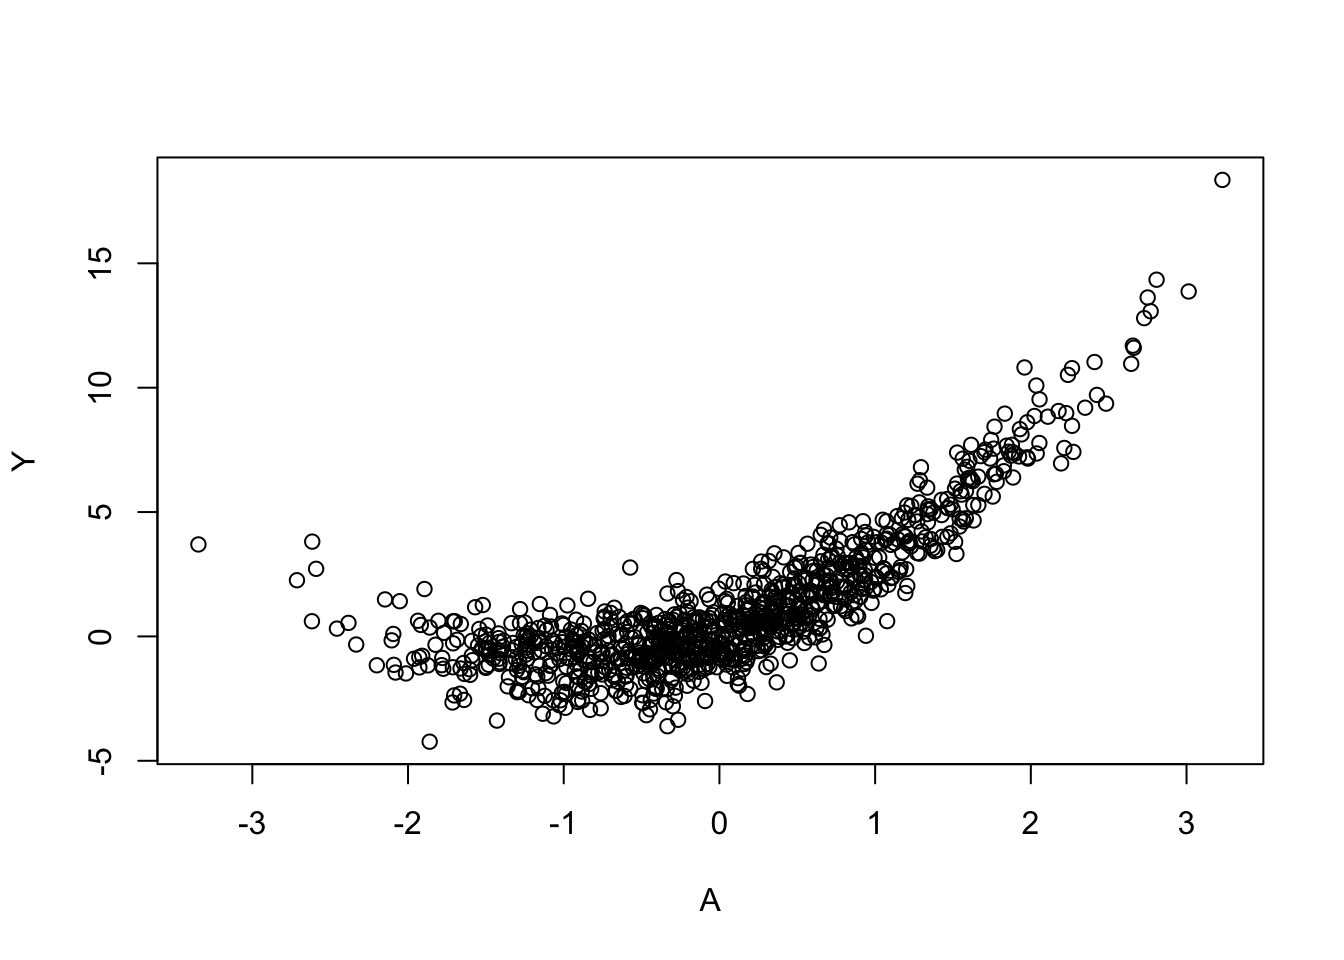
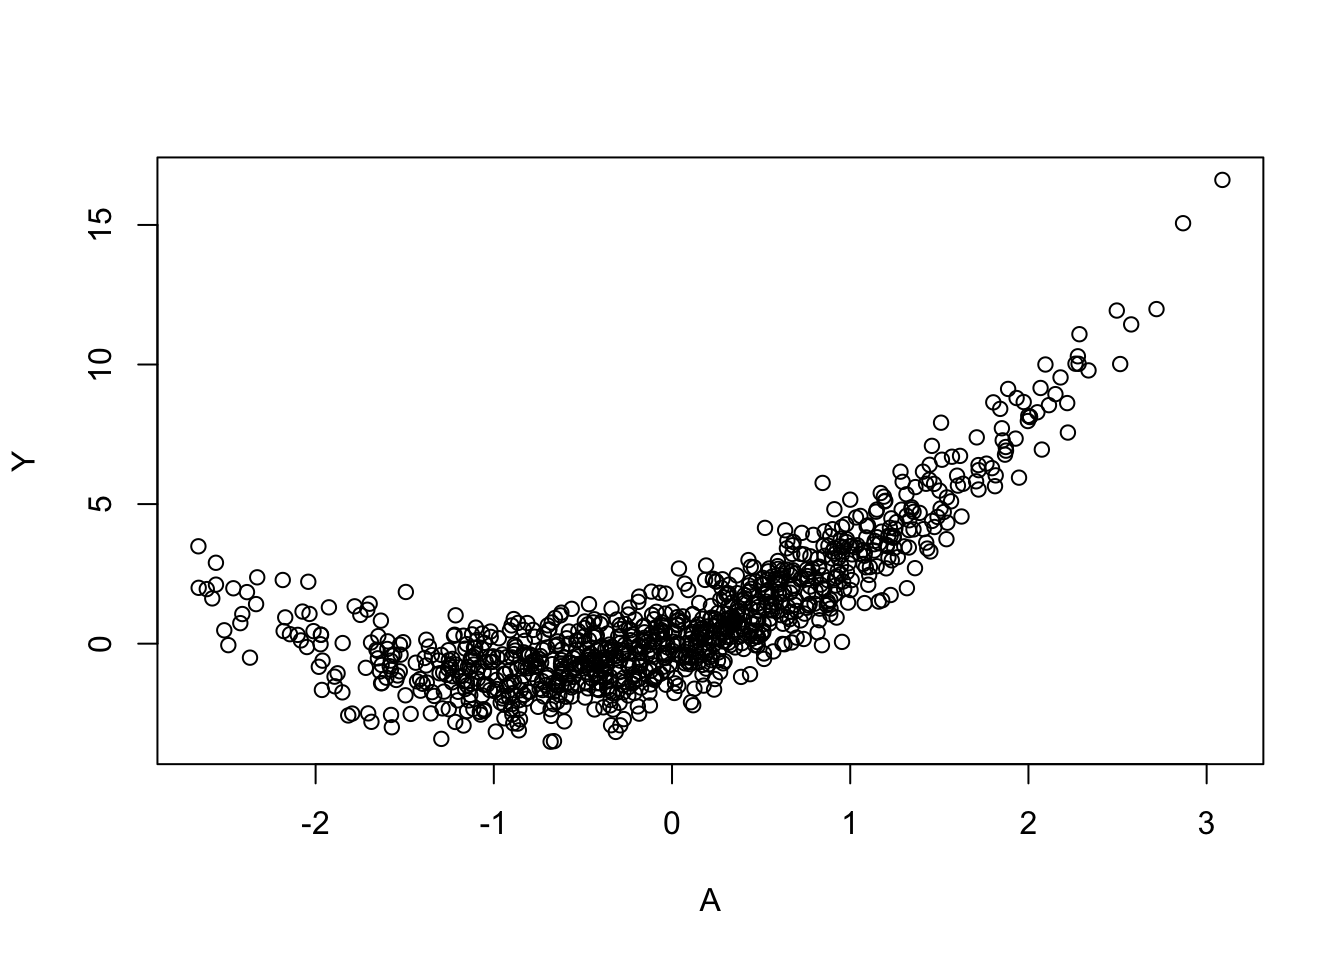
adding some on Aronow & Miller

diff --git a/docs/2019_Aronow_Miller/2019_Aronow_Miller.html b/docs/2019_Aronow_Miller/2019_Aronow_Miller.html
@@ -191,6 +191,8 @@ code span.wa { color: #60a0b0; font-weight: bold; font-style: italic; } /* Warni
    
   <ul>
   <li><a href="#introduction" id="toc-introduction" class="nav-link active" data-scroll-target="#introduction">Introduction</a></li>
+  <li><a href="#sharp-bounds-for-estimates" id="toc-sharp-bounds-for-estimates" class="nav-link" data-scroll-target="#sharp-bounds-for-estimates">Sharp Bounds for Estimates</a></li>
+  <li><a href="#inverse-probability-weighting" id="toc-inverse-probability-weighting" class="nav-link" data-scroll-target="#inverse-probability-weighting">Inverse Probability Weighting</a></li>
   </ul>
 </nav>
     </div>
@@ -224,6 +226,9 @@ code span.wa { color: #60a0b0; font-weight: bold; font-style: italic; } /* Warni
 <p><strong>Definition.</strong> The stable outcomes model is for missing data is given <span class="math display">\[Y_i^* = \left\{ \begin{array}{ll} -99 &amp; R_i = 0 \\ Y_i &amp; R_i = 1 \end{array} \right.\]</span> where <span class="math inline">\(R_i\)</span> is the missingness indicator variable. This can also be written as <span class="math inline">\(Y_i^* = Y_i R_i + (-99)(1-R_i)\)</span>.</p>
 <p>This is called the <em>stable outcomes model</em> because it presumes that <span class="math inline">\(Y_i\)</span> is itself a stable quantity.</p>
 <p>As far as I can tell, they’re using <span class="math inline">\(-99\)</span> in the equations not because it makes the math go through, but because <span class="math inline">\(-99\)</span> is number commonly used to indicate missingness.</p>
+</section>
+<section id="sharp-bounds-for-estimates" class="level2">
+<h2 class="anchored" data-anchor-id="sharp-bounds-for-estimates">Sharp Bounds for Estimates</h2>
 <p><strong>Theorem 6.1.3.</strong> Sharp bounds for the expected value. Let <span class="math inline">\(Y_i\)</span> and <span class="math inline">\(R_i\)</span> be random variables with support for <span class="math inline">\(Y_i\)</span> be restricted to <span class="math inline">\([a,b]\)</span>, <span class="math inline">\(\text{support}(R_i) \in \{0,1\}\)</span>, and <span class="math inline">\(Y_i*\)</span> is as in the stable outcomes model. Then</p>
 <p><span class="math display">\[\begin{align}
 \mathbb E[Y_i] \in \big[
@@ -284,15 +289,15 @@ code span.wa { color: #60a0b0; font-weight: bold; font-style: italic; } /* Warni
 <tbody>
   <tr>
    <td style="text-align:left;font-weight: bold;"> F(1,998) </td>
-   <td style="text-align:right;"> 1630.98 </td>
+   <td style="text-align:right;"> 1287.76 </td>
   </tr>
   <tr>
    <td style="text-align:left;font-weight: bold;"> R² </td>
-   <td style="text-align:right;"> 0.62 </td>
+   <td style="text-align:right;"> 0.56 </td>
   </tr>
   <tr>
    <td style="text-align:left;font-weight: bold;"> Adj. R² </td>
-   <td style="text-align:right;"> 0.62 </td>
+   <td style="text-align:right;"> 0.56 </td>
   </tr>
 </tbody>
 </table> <table class="table table-striped table-hover table-condensed table-responsive" style="width: auto !important; margin-left: auto; margin-right: auto;border-bottom: 0;">
@@ -308,16 +313,16 @@ code span.wa { color: #60a0b0; font-weight: bold; font-style: italic; } /* Warni
 <tbody>
   <tr>
    <td style="text-align:left;font-weight: bold;"> (Intercept) </td>
-   <td style="text-align:right;"> 1.03 </td>
+   <td style="text-align:right;"> 0.95 </td>
    <td style="text-align:right;"> 0.05 </td>
-   <td style="text-align:right;"> 19.01 </td>
+   <td style="text-align:right;"> 17.62 </td>
    <td style="text-align:right;"> 0.00 </td>
   </tr>
   <tr>
    <td style="text-align:left;font-weight: bold;"> A </td>
-   <td style="text-align:right;"> 2.19 </td>
+   <td style="text-align:right;"> 1.96 </td>
    <td style="text-align:right;"> 0.05 </td>
-   <td style="text-align:right;"> 40.39 </td>
+   <td style="text-align:right;"> 35.89 </td>
    <td style="text-align:right;"> 0.00 </td>
   </tr>
 </tbody>
@@ -333,7 +338,7 @@ code span.wa { color: #60a0b0; font-weight: bold; font-style: italic; } /* Warni
 <tbody>
   <tr>
    <td style="text-align:left;font-weight: bold;"> Observations </td>
-   <td style="text-align:right;"> 447 </td>
+   <td style="text-align:right;"> 487 </td>
   </tr>
   <tr>
    <td style="text-align:left;font-weight: bold;"> Dependent variable </td>
@@ -347,16 +352,16 @@ code span.wa { color: #60a0b0; font-weight: bold; font-style: italic; } /* Warni
 </table> <table class="table table-striped table-hover table-condensed table-responsive" style="width: auto !important; margin-left: auto; margin-right: auto;">
 <tbody>
   <tr>
-   <td style="text-align:left;font-weight: bold;"> F(1,445) </td>
-   <td style="text-align:right;"> 19.75 </td>
+   <td style="text-align:left;font-weight: bold;"> F(1,485) </td>
+   <td style="text-align:right;"> 16.00 </td>
   </tr>
   <tr>
    <td style="text-align:left;font-weight: bold;"> R² </td>
-   <td style="text-align:right;"> 0.04 </td>
+   <td style="text-align:right;"> 0.03 </td>
   </tr>
   <tr>
    <td style="text-align:left;font-weight: bold;"> Adj. R² </td>
-   <td style="text-align:right;"> 0.04 </td>
+   <td style="text-align:right;"> 0.03 </td>
   </tr>
 </tbody>
 </table> <table class="table table-striped table-hover table-condensed table-responsive" style="width: auto !important; margin-left: auto; margin-right: auto;border-bottom: 0;">
@@ -372,16 +377,16 @@ code span.wa { color: #60a0b0; font-weight: bold; font-style: italic; } /* Warni
 <tbody>
   <tr>
    <td style="text-align:left;font-weight: bold;"> (Intercept) </td>
-   <td style="text-align:right;"> -0.46 </td>
+   <td style="text-align:right;"> -0.48 </td>
    <td style="text-align:right;"> 0.07 </td>
-   <td style="text-align:right;"> -6.64 </td>
+   <td style="text-align:right;"> -6.96 </td>
    <td style="text-align:right;"> 0.00 </td>
   </tr>
   <tr>
    <td style="text-align:left;font-weight: bold;"> A_observed </td>
-   <td style="text-align:right;"> 0.33 </td>
+   <td style="text-align:right;"> 0.29 </td>
    <td style="text-align:right;"> 0.07 </td>
-   <td style="text-align:right;"> 4.44 </td>
+   <td style="text-align:right;"> 4.00 </td>
    <td style="text-align:right;"> 0.00 </td>
   </tr>
 </tbody>
@@ -395,19 +400,115 @@ code span.wa { color: #60a0b0; font-weight: bold; font-style: italic; } /* Warni
 <span id="cb5-4"><a href="#cb5-4" aria-hidden="true" tabindex="-1"></a><span class="co"># lower bound on the A-Y effect</span></span>
 <span id="cb5-5"><a href="#cb5-5" aria-hidden="true" tabindex="-1"></a><span class="fu">mean</span>(Y_stable<span class="sc">*</span>R <span class="sc">+</span> <span class="fu">min</span>(Y_observed)<span class="sc">*</span>(<span class="dv">1</span><span class="sc">-</span>R))</span></code><button title="Copy to Clipboard" class="code-copy-button"><i class="bi"></i></button></pre></div>
 <div class="cell-output cell-output-stdout">
-<pre><code>[1] -0.4926378</code></pre>
+<pre><code>[1] -0.5036956</code></pre>
 </div>
 <div class="sourceCode cell-code" id="cb7"><pre class="sourceCode r code-with-copy"><code class="sourceCode r"><span id="cb7-1"><a href="#cb7-1" aria-hidden="true" tabindex="-1"></a><span class="co"># upper bound on the A-Y effect</span></span>
 <span id="cb7-2"><a href="#cb7-2" aria-hidden="true" tabindex="-1"></a><span class="fu">mean</span>(Y_stable<span class="sc">*</span>R <span class="sc">+</span> <span class="fu">max</span>(Y_observed)<span class="sc">*</span>(<span class="dv">1</span><span class="sc">-</span>R))</span></code><button title="Copy to Clipboard" class="code-copy-button"><i class="bi"></i></button></pre></div>
 <div class="cell-output cell-output-stdout">
-<pre><code>[1] 3.099398</code></pre>
+<pre><code>[1] 3.028738</code></pre>
 </div>
 </div>
 <p>In chapter 7, they provide a similar theorem that provides the means to bound a causal effect. There is one crucial difference, though, which is that because the average treatment effect is the difference between two potential outcomes (under treatment and under non-treatment), whereas the effect estimate in the missing data scenario is purely associational, the causal theorem has an additional subtracted term.</p>
 <p><strong>Theorem 7.1.17.</strong> Sharp bounds for the average treatment effect.</p>
 <p>Let <span class="math inline">\(Y_i(0)\)</span>, <span class="math inline">\(Y_i(1)\)</span>, and <span class="math inline">\(D_i\)</span> be random variables such that <span class="math inline">\(\forall d \in \{0, 1\},\)</span> <span class="math inline">\(\text{support}(Y_i(d)) \subset [a,b],\)</span> and <span class="math inline">\(\text{support}(D_i) = \{0,1\}\)</span>. Let <span class="math inline">\(Y_i = Y_i(1) \cdot D_i + Y_i(0) \cdot (1-D_i)\)</span> and <span class="math inline">\(\tau_i = Y_i(1) - Y_i(0)\)</span>. Then</p>
-<p><span class="math display">\[
-\mathbb E[\tau_i] \in \big[ \mathbb E( Y_i | D_i = 1)Pr(D_i=1) + aPr(D_i = 0) \]</span> <span class="math display">\[ -(\mathbb E(Y_i|D_i=0)Pr(D_i=0) + bPr(D_i=1)),\]</span> <span class="math display">\[\mathbb E( Y_i | D_i = 1)Pr(D_i=1) + bPr(D_i = 0) \]</span> <span class="math display">\[ -(\mathbb E(Y_i|D_i=0)Pr(D_i=0) + aPr(D_i=1)) \big].\]</span></p>
+<p><span class="math display">\[\begin{aligned}\mathbb E[\tau_i] \in \big[ \mathbb E( &amp; Y_i | D_i = 1)Pr(D_i=1) + aPr(D_i = 0) \\
+&amp;  -(\mathbb E(Y_i|D_i=0)Pr(D_i=0) + bPr(D_i=1)), \\
+&amp; \mathbb E( Y_i | D_i = 1)Pr(D_i=1) + bPr(D_i = 0) \\
+&amp; -(\mathbb E(Y_i|D_i=0)Pr(D_i=0) + aPr(D_i=1)) \big]. \end{aligned} \]</span></p>
+<p>Let’s simulate some data and run an analysis to build some intuition around how this sharp bounding works. For example, we might imagine a scenario where the treatment assigment and the outcome are confounded, and hence the naive (unadjusted) estimate of the average treatment effect would be biased.</p>
+<div class="cell" data-layout-align="center">
+<div class="sourceCode cell-code" id="cb9"><pre class="sourceCode r code-with-copy"><code class="sourceCode r"><span id="cb9-1"><a href="#cb9-1" aria-hidden="true" tabindex="-1"></a><span class="fu">library</span>(tidyverse)</span></code><button title="Copy to Clipboard" class="code-copy-button"><i class="bi"></i></button></pre></div>
+<div class="cell-output cell-output-stderr">
+<pre><code>── Attaching core tidyverse packages ──────────────────────── tidyverse 2.0.0 ──
+✔ dplyr     1.1.2     ✔ readr     2.1.4
+✔ forcats   1.0.0     ✔ stringr   1.5.0
+✔ ggplot2   3.4.2     ✔ tibble    3.2.1
+✔ lubridate 1.9.2     ✔ tidyr     1.3.0
+✔ purrr     1.0.1     
+── Conflicts ────────────────────────────────────────── tidyverse_conflicts() ──
+✖ dplyr::filter() masks stats::filter()
+✖ dplyr::lag()    masks stats::lag()
+ℹ Use the conflicted package (&lt;http://conflicted.r-lib.org/&gt;) to force all conflicts to become errors</code></pre>
+</div>
+<div class="sourceCode cell-code" id="cb11"><pre class="sourceCode r code-with-copy"><code class="sourceCode r"><span id="cb11-1"><a href="#cb11-1" aria-hidden="true" tabindex="-1"></a>N <span class="ot">&lt;-</span> <span class="dv">1000</span></span>
+<span id="cb11-2"><a href="#cb11-2" aria-hidden="true" tabindex="-1"></a></span>
+<span id="cb11-3"><a href="#cb11-3" aria-hidden="true" tabindex="-1"></a><span class="fu">set.seed</span>(<span class="dv">1234</span>)</span>
+<span id="cb11-4"><a href="#cb11-4" aria-hidden="true" tabindex="-1"></a>L <span class="ot">&lt;-</span> <span class="fu">rnorm</span>(<span class="at">n =</span> N)</span>
+<span id="cb11-5"><a href="#cb11-5" aria-hidden="true" tabindex="-1"></a>D <span class="ot">&lt;-</span> <span class="fu">rbinom</span>(<span class="at">n =</span> N, <span class="at">size =</span> <span class="dv">1</span>, <span class="at">prob =</span> <span class="fu">logistic</span>(L))</span>
+<span id="cb11-6"><a href="#cb11-6" aria-hidden="true" tabindex="-1"></a>Y1 <span class="ot">&lt;-</span> L <span class="sc">+</span> <span class="fu">rnorm</span>(<span class="at">n =</span> N, <span class="at">mean =</span> <span class="dv">2</span>) <span class="co"># outcome under treatment</span></span>
+<span id="cb11-7"><a href="#cb11-7" aria-hidden="true" tabindex="-1"></a>Y0 <span class="ot">&lt;-</span> L <span class="sc">+</span> <span class="fu">rnorm</span>(<span class="at">n =</span> N, <span class="at">mean =</span> <span class="dv">0</span>) <span class="co"># outcome under no treatment</span></span>
+<span id="cb11-8"><a href="#cb11-8" aria-hidden="true" tabindex="-1"></a></span>
+<span id="cb11-9"><a href="#cb11-9" aria-hidden="true" tabindex="-1"></a>Y <span class="ot">&lt;-</span> Y1<span class="sc">*</span>D <span class="sc">+</span> Y0<span class="sc">*</span>(<span class="dv">1</span><span class="sc">-</span>D)</span>
+<span id="cb11-10"><a href="#cb11-10" aria-hidden="true" tabindex="-1"></a></span>
+<span id="cb11-11"><a href="#cb11-11" aria-hidden="true" tabindex="-1"></a>unadjusted_model <span class="ot">&lt;-</span> <span class="fu">lm</span>(Y <span class="sc">~</span> D)</span>
+<span id="cb11-12"><a href="#cb11-12" aria-hidden="true" tabindex="-1"></a></span>
+<span id="cb11-13"><a href="#cb11-13" aria-hidden="true" tabindex="-1"></a><span class="fu">ggplot</span>(<span class="fu">data.frame</span>(<span class="at">D =</span> <span class="fu">as.factor</span>(D), <span class="at">Y =</span> Y),</span>
+<span id="cb11-14"><a href="#cb11-14" aria-hidden="true" tabindex="-1"></a>       <span class="fu">aes</span>(<span class="at">x =</span> D, <span class="at">y =</span> Y, <span class="at">color =</span> D)) <span class="sc">+</span> </span>
+<span id="cb11-15"><a href="#cb11-15" aria-hidden="true" tabindex="-1"></a>  ggforce<span class="sc">::</span><span class="fu">geom_sina</span>(<span class="at">alpha =</span> <span class="fl">0.35</span>, <span class="at">scale =</span> <span class="st">'width'</span>, <span class="at">maxwidth=</span>.<span class="dv">5</span>) <span class="sc">+</span> </span>
+<span id="cb11-16"><a href="#cb11-16" aria-hidden="true" tabindex="-1"></a>  <span class="fu">geom_boxplot</span>(<span class="at">alpha =</span> <span class="fl">0.5</span>, <span class="at">width =</span> .<span class="dv">3</span>, <span class="at">outlier.color =</span> <span class="cn">NA</span>, <span class="at">color =</span> <span class="st">'black'</span>) <span class="sc">+</span> </span>
+<span id="cb11-17"><a href="#cb11-17" aria-hidden="true" tabindex="-1"></a>  <span class="fu">stat_summary</span>(<span class="at">fun =</span> mean, <span class="at">geom =</span> <span class="st">'point'</span>, <span class="at">size =</span> <span class="dv">3</span>, <span class="at">shape =</span> <span class="dv">1</span>, <span class="at">color =</span> <span class="st">'black'</span>) <span class="sc">+</span> </span>
+<span id="cb11-18"><a href="#cb11-18" aria-hidden="true" tabindex="-1"></a>  <span class="fu">theme_bw</span>() <span class="sc">+</span> </span>
+<span id="cb11-19"><a href="#cb11-19" aria-hidden="true" tabindex="-1"></a>  <span class="fu">theme</span>(<span class="at">legend.position =</span> <span class="st">'bottom'</span>) <span class="sc">+</span> </span>
+<span id="cb11-20"><a href="#cb11-20" aria-hidden="true" tabindex="-1"></a>  <span class="fu">ggtitle</span>(<span class="st">"D (treatment) and Y (outcome) are confounded by (unshown) L"</span>,</span>
+<span id="cb11-21"><a href="#cb11-21" aria-hidden="true" tabindex="-1"></a>          <span class="st">"Averages are indicated by the open black circles"</span>) <span class="sc">+</span></span>
+<span id="cb11-22"><a href="#cb11-22" aria-hidden="true" tabindex="-1"></a>  <span class="fu">labs</span>(<span class="at">caption =</span> <span class="fu">paste0</span>(<span class="st">"The biased estimate of average treatment effect is roughly "</span>, <span class="fu">round</span>(<span class="fu">coef</span>(unadjusted_model)[<span class="dv">2</span>], <span class="dv">1</span>)))</span></code><button title="Copy to Clipboard" class="code-copy-button"><i class="bi"></i></button></pre></div>
+<div class="cell-output-display">
+<div class="quarto-figure quarto-figure-center">
+<figure class="figure">
+<p><img src="2019_Aronow_Miller_files/figure-html/unnamed-chunk-2-1.png" class="img-fluid figure-img" style="width:5in"></p>
+</figure>
+</div>
+</div>
+</div>
+<div class="cell" data-layout-align="center">
+<div class="sourceCode cell-code" id="cb12"><pre class="sourceCode r code-with-copy"><code class="sourceCode r"><span id="cb12-1"><a href="#cb12-1" aria-hidden="true" tabindex="-1"></a><span class="fu">ggplot</span>(<span class="fu">data.frame</span>(<span class="at">L =</span> L, <span class="at">D =</span> <span class="fu">as.factor</span>(D), <span class="at">Y =</span> Y),</span>
+<span id="cb12-2"><a href="#cb12-2" aria-hidden="true" tabindex="-1"></a>       <span class="fu">aes</span>(<span class="at">x =</span> L, <span class="at">y =</span> Y, <span class="at">color =</span> D)) <span class="sc">+</span> </span>
+<span id="cb12-3"><a href="#cb12-3" aria-hidden="true" tabindex="-1"></a>  <span class="fu">geom_point</span>(<span class="at">alpha =</span> <span class="fl">0.25</span>) <span class="sc">+</span> </span>
+<span id="cb12-4"><a href="#cb12-4" aria-hidden="true" tabindex="-1"></a>  <span class="fu">geom_smooth</span>(<span class="at">method =</span> <span class="st">'lm'</span>, <span class="at">se=</span>F) <span class="sc">+</span> </span>
+<span id="cb12-5"><a href="#cb12-5" aria-hidden="true" tabindex="-1"></a>  <span class="fu">theme_bw</span>() <span class="sc">+</span> </span>
+<span id="cb12-6"><a href="#cb12-6" aria-hidden="true" tabindex="-1"></a>  <span class="fu">theme</span>(<span class="at">legend.position =</span> <span class="st">'bottom'</span>) <span class="sc">+</span> </span>
+<span id="cb12-7"><a href="#cb12-7" aria-hidden="true" tabindex="-1"></a>  <span class="fu">labs</span>(<span class="at">color =</span> <span class="st">'D (treatment):'</span>) <span class="sc">+</span> </span>
+<span id="cb12-8"><a href="#cb12-8" aria-hidden="true" tabindex="-1"></a>  <span class="fu">scale_y_continuous</span>(<span class="at">breaks =</span> <span class="fu">c</span>(<span class="sc">-</span><span class="dv">4</span>,<span class="sc">-</span><span class="dv">2</span>,<span class="dv">0</span>,<span class="dv">2</span>,<span class="dv">4</span>,<span class="dv">6</span>)) <span class="sc">+</span> </span>
+<span id="cb12-9"><a href="#cb12-9" aria-hidden="true" tabindex="-1"></a>  <span class="fu">ggtitle</span>(<span class="st">"Conditioning on L allows us to see that the average treatment effect is actually 2"</span>) </span></code><button title="Copy to Clipboard" class="code-copy-button"><i class="bi"></i></button></pre></div>
+<div class="cell-output cell-output-stderr">
+<pre><code>`geom_smooth()` using formula = 'y ~ x'</code></pre>
+</div>
+<div class="cell-output-display">
+<div class="quarto-figure quarto-figure-center">
+<figure class="figure">
+<p><img src="2019_Aronow_Miller_files/figure-html/unnamed-chunk-3-1.png" class="img-fluid figure-img" style="width:6in"></p>
+</figure>
+</div>
+</div>
+</div>
+<p>So now can we check if the sharp bounds contain 2, which they should as long as the theorem holds? (check the book for the proof!)</p>
+<div class="cell">
+<div class="sourceCode cell-code" id="cb14"><pre class="sourceCode r code-with-copy"><code class="sourceCode r"><span id="cb14-1"><a href="#cb14-1" aria-hidden="true" tabindex="-1"></a>lower_bound <span class="ot">&lt;-</span> <span class="fu">mean</span>(Y<span class="sc">*</span>D <span class="sc">+</span> <span class="fu">min</span>(Y)<span class="sc">*</span>(<span class="dv">1</span><span class="sc">-</span>D) <span class="sc">-</span> Y<span class="sc">*</span>(<span class="dv">1</span><span class="sc">-</span>D) <span class="sc">-</span> <span class="fu">max</span>(Y)<span class="sc">*</span>D)</span>
+<span id="cb14-2"><a href="#cb14-2" aria-hidden="true" tabindex="-1"></a>upper_bound <span class="ot">&lt;-</span> <span class="fu">mean</span>(Y<span class="sc">*</span>D <span class="sc">+</span> <span class="fu">max</span>(Y)<span class="sc">*</span>(<span class="dv">1</span><span class="sc">-</span>D) <span class="sc">-</span> Y<span class="sc">*</span>(<span class="dv">1</span><span class="sc">-</span>D) <span class="sc">-</span> <span class="fu">min</span>(Y)<span class="sc">*</span>D)</span>
+<span id="cb14-3"><a href="#cb14-3" aria-hidden="true" tabindex="-1"></a></span>
+<span id="cb14-4"><a href="#cb14-4" aria-hidden="true" tabindex="-1"></a><span class="fu">print</span>(<span class="st">"the actual causal estimate should be guaranteed to lie within:"</span>)</span></code><button title="Copy to Clipboard" class="code-copy-button"><i class="bi"></i></button></pre></div>
+<div class="cell-output cell-output-stdout">
+<pre><code>[1] "the actual causal estimate should be guaranteed to lie within:"</code></pre>
+</div>
+<div class="sourceCode cell-code" id="cb16"><pre class="sourceCode r code-with-copy"><code class="sourceCode r"><span id="cb16-1"><a href="#cb16-1" aria-hidden="true" tabindex="-1"></a><span class="fu">print</span>(<span class="fu">paste0</span>(<span class="st">"["</span>, <span class="fu">round</span>(lower_bound, <span class="dv">1</span>), <span class="st">', '</span>, <span class="fu">round</span>(upper_bound, <span class="dv">1</span>), <span class="st">"]"</span>))</span></code><button title="Copy to Clipboard" class="code-copy-button"><i class="bi"></i></button></pre></div>
+<div class="cell-output cell-output-stdout">
+<pre><code>[1] "[-4.1, 6.9]"</code></pre>
+</div>
+<div class="sourceCode cell-code" id="cb18"><pre class="sourceCode r code-with-copy"><code class="sourceCode r"><span id="cb18-1"><a href="#cb18-1" aria-hidden="true" tabindex="-1"></a><span class="fu">print</span>(<span class="st">"is the actual average treatment effect within these bounds?"</span>)</span></code><button title="Copy to Clipboard" class="code-copy-button"><i class="bi"></i></button></pre></div>
+<div class="cell-output cell-output-stdout">
+<pre><code>[1] "is the actual average treatment effect within these bounds?"</code></pre>
+</div>
+<div class="sourceCode cell-code" id="cb20"><pre class="sourceCode r code-with-copy"><code class="sourceCode r"><span id="cb20-1"><a href="#cb20-1" aria-hidden="true" tabindex="-1"></a><span class="cf">if</span> (<span class="dv">2</span> <span class="sc">&gt;=</span> lower_bound <span class="sc">&amp;</span> <span class="dv">2</span> <span class="sc">&lt;=</span> upper_bound) <span class="fu">print</span>(<span class="st">"yup! 🙂"</span>) <span class="cf">else</span> <span class="fu">print</span>(<span class="st">"nope 😕"</span>)</span></code><button title="Copy to Clipboard" class="code-copy-button"><i class="bi"></i></button></pre></div>
+<div class="cell-output cell-output-stdout">
+<pre><code>[1] "yup! 🙂"</code></pre>
+</div>
+</div>
+</section>
+<section id="inverse-probability-weighting" class="level2">
+<h2 class="anchored" data-anchor-id="inverse-probability-weighting">Inverse Probability Weighting</h2>
+<p><strong>Definition 6.2.8</strong> Stabilized IPW Estimator for Missing Data</p>
+<p>Let <span class="math inline">\(Y_i\)</span> and <span class="math inline">\(R_i\)</span> be random variables with <span class="math inline">\(\text{support}(R_i) = \{ 0, 1 \}\)</span>. Let <span class="math inline">\(Y_i^*\)</span> be as in the stable outcomes model and let <span class="math inline">\(X_i\)</span> be a random vector. Then given <span class="math inline">\(n\)</span> independently and identically distributed observations of <span class="math inline">\((Y_i^*, R_i, X_i)\)</span>, the stabilized IPW estimator for <span class="math inline">\(\mathbb E[Y_i]\)</span> is</p>
+<p><span class="math display">\[ \hat{\mathbb E}_{SIPW} (Y_i) = \frac{\frac{1}{n} \sum_{i=1}^n \frac{Y_i R^i}{\hat p_R(X_i)}}{\frac{1}{n} \sum_{i=1}^n \frac{R^i}{\hat p_R(X_i)}}. \]</span></p>
 
 
 </section>

diff --git a/docs/index.html b/docs/index.html
@@ -337,6 +337,9 @@ Reading List for the Semester
 <p>Week 2b: <a href="2000_Dawid/2000_Dawid.html" style="text-decoration: none; color: black;"><u><i>Causal Inference Without Counterfactuals</i> </u> by Alexander Phillip Dawid (2000). JASA</a></p>
 <p><a href="2000_Dawid/2000_Dawid.html">HTML</a> <span style="margin-left: 25px;"></span> <a href="">PDF</a></p>
 <hr>
+<p>Week 3: <a href="2019_Aronow_Miller/2019_Aronow_Miller.html" style="text-decoration: none; color: black;"><u><i>Foundations of Agnostic Statistics</i> </u> by Peter M. Aronow and Benjamin T. Miller (2019). Cambridge University Press.</a></p>
+<p><a href="2019_Aronow_Miller/2019_Aronow_Miller.html">HTML</a> <span style="margin-left: 25px;"></span></p>
+<hr>
 
 
 </section>
